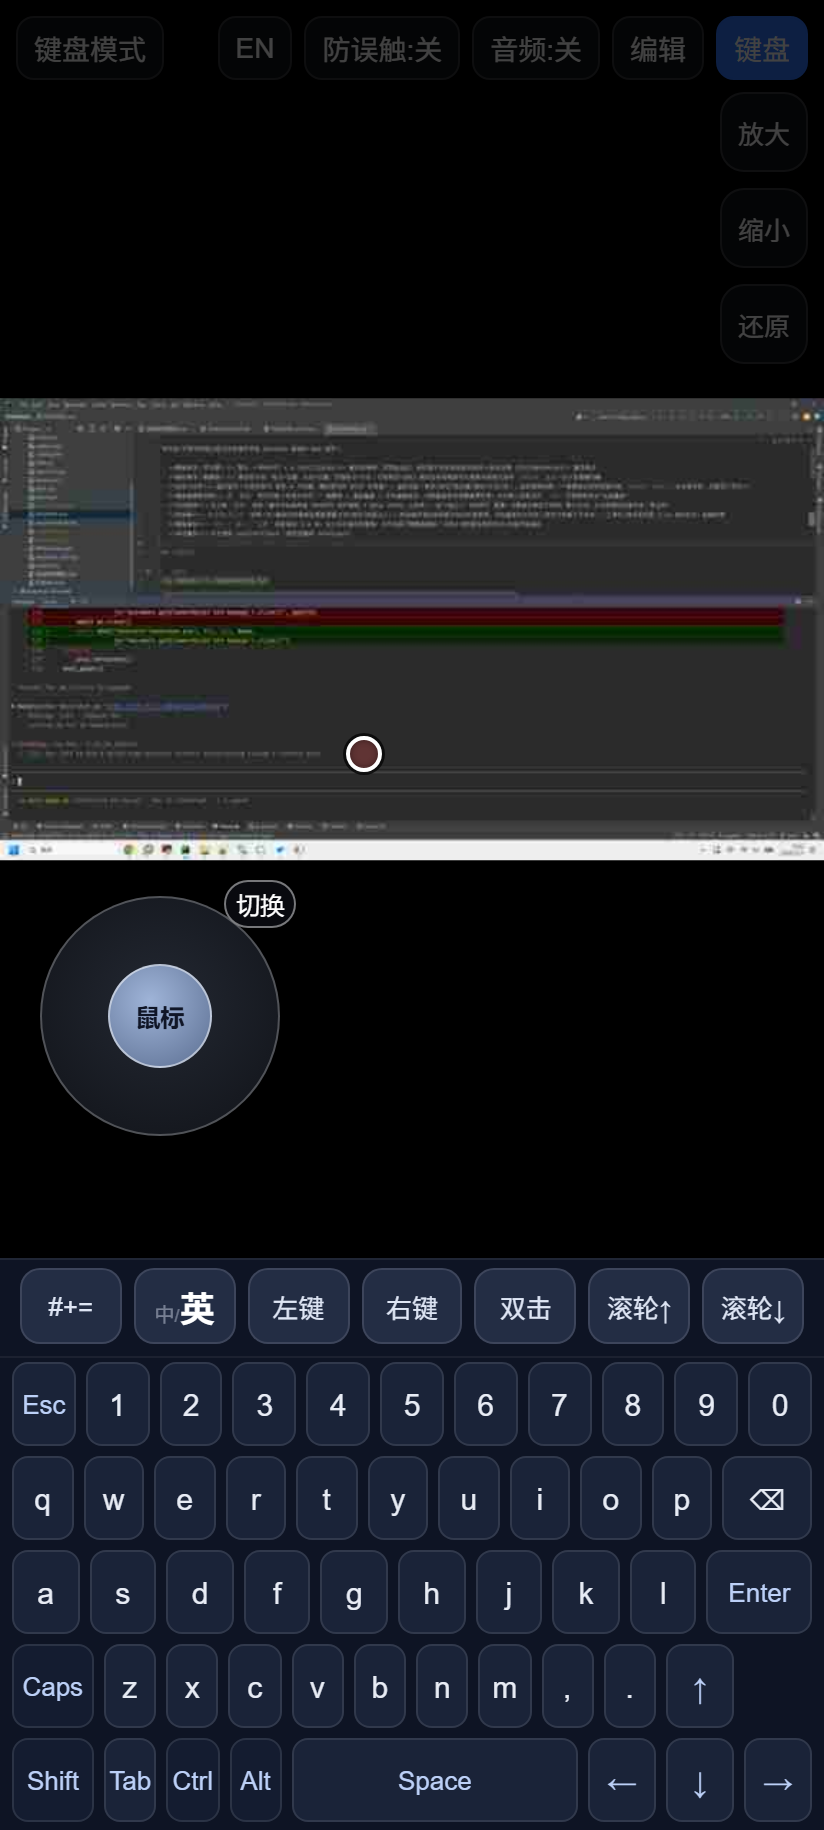
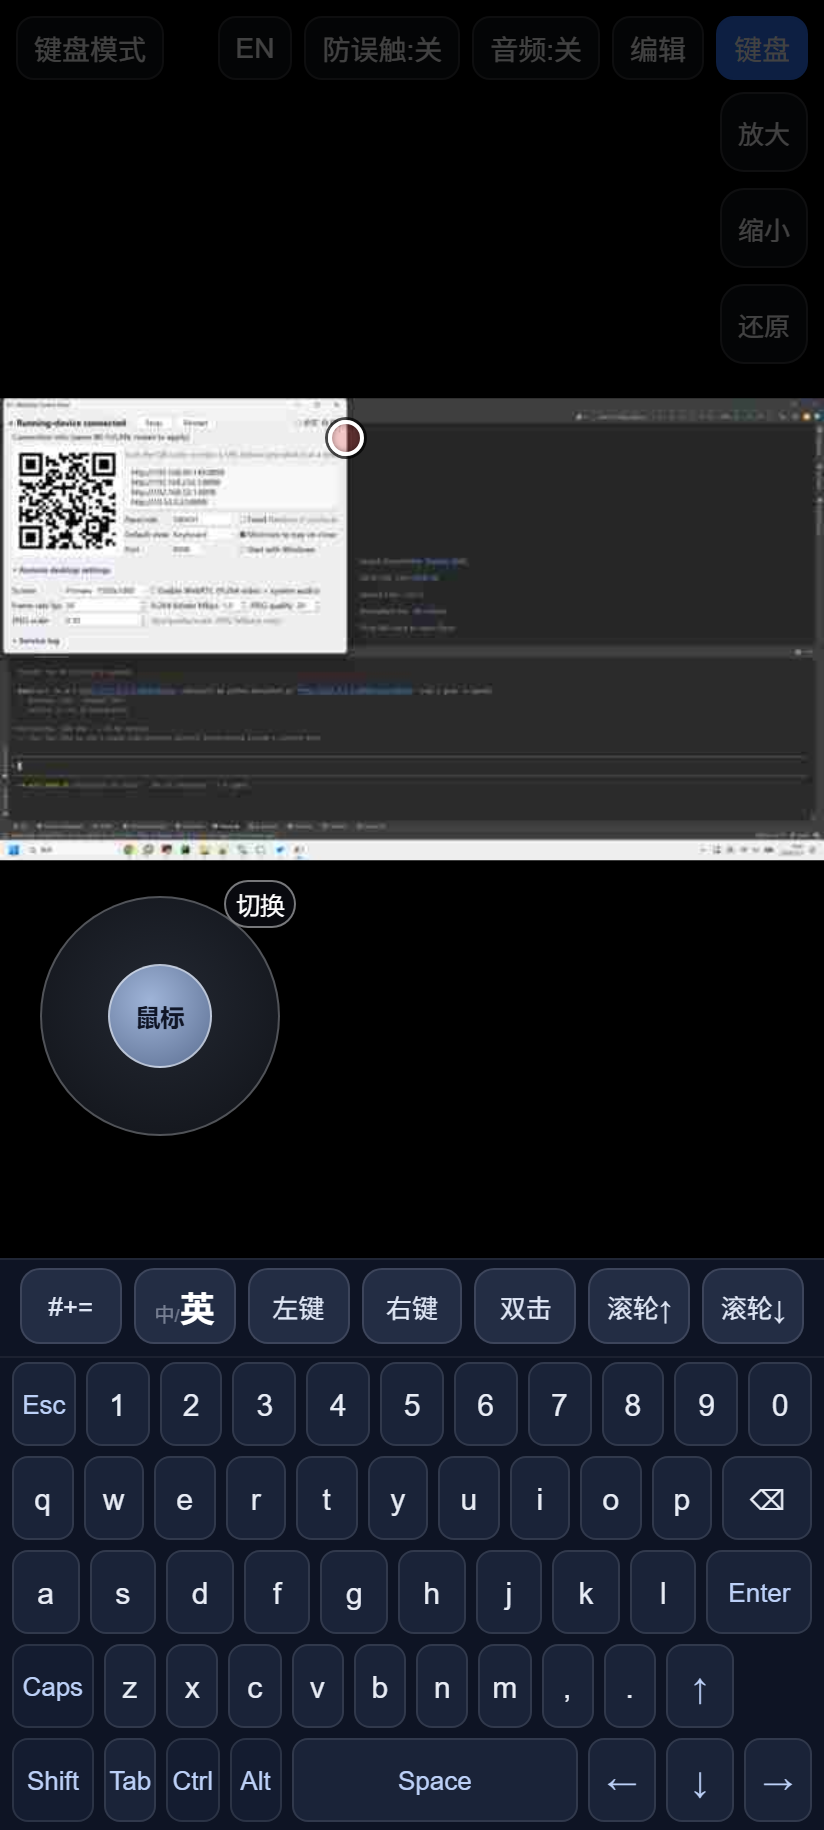
WebDesk: 英文README改用英文界面实拍截图，shot.py 支持双语批量重拍
- 新增 5 张英文界面截图(*-en.png)：手机页经 ?lang=en + 内存态控件改名(不动服务端布局)，
  面板用鼠标点击语言单选钮切换后拍重建窗口，拍完自动还原中文
- 面板截图修复：SetProcessDpiAwareness(2) 纠正 125% 缩放下虚拟化的窗口矩形；
  SetWindowPos 句柄用 c_void_p(-1)(x64 下 int 丢高位致置顶静默失效)；白屏首绘重试
- 手机截图修复：每拍新开标签页并关闭(同页 navigate 不断旧 WebSocket，
  会占住单连接名额致后续页面 busy 全黑)
- README.en.md 图片指向 -en 图

Changed region(s): [[0.0, 0.218, 1.0, 0.4361]]

diff --git a/docs/shot.py b/docs/shot.py
@@ -81,31 +81,112 @@ async def shot(name, w, h, url, js=None, timeout=25):
         urllib.request.urlopen(f"http://127.0.0.1:{PORT}/json/close/{tab_id}")
         await asyncio.sleep(1.5)                 # 给服务端一点时间处理断开
 
-def shot_panel():
+def shot_panel(name="panel.png", hwnd=None):
+    import ctypes.wintypes  # noqa: F401  click_panel_lang 的 POINT
     ctypes.windll.shcore.SetProcessDpiAwareness(2)   # 必须最先设置：本机 125% 缩放下
     #                                                 非感知进程拿到的窗口矩形是虚拟化的，截图会错位成黑块
     u = ctypes.windll.user32
-    hwnd = u.FindWindowW(None, "WebDesk 控制面板")
+    hwnd = hwnd or u.FindWindowW(None, "WebDesk 控制面板") or u.FindWindowW(None, "WebDesk Control Panel")
     if not hwnd:
         print("panel window not found"); return
-    if u.IsIconic(hwnd):
-        u.ShowWindow(hwnd, 9)                        # SW_RESTORE：最小化先还原
-    u.SwitchToThisWindow(hwnd, True)                 # 比 SetForegroundWindow 可靠（跨进程前台锁）
-    time.sleep(0.8)
+    # 注意：HWND_TOPMOST/NOTOPMOST 必须用 c_void_p 传——64 位下 ctypes 默认按
+    # 32 位 int 传 -1，不符号扩展指针高位 → 句柄变 0x00000000FFFFFFFF，置顶静默失效
+    TOP, NOTOP = ctypes.c_void_p(-1), ctypes.c_void_p(-2)
+    SWP_NOSIZE, SWP_SHOWWINDOW = 0x0001, 0x0040
+    u.SetWindowPos(hwnd, TOP, 0, 0, 0, 0, SWP_NOSIZE | SWP_SHOWWINDOW)   # 置顶绕前台锁
+    # 截屏法抓窗口矩形（Qt 窗口走 GPU 合成，PrintWindow 会得到全黑图，实测踩坑；
+    # 置 TOPMOST 后窗口必然在最上，矩形内即窗口本体）
+    from PIL import ImageGrab
+    l, t, r, b = _rect(u, hwnd)
+    img = None
+    for _ in range(8):                       # 刚重启的面板可能还在首绘（整窗纯白）：等内容出现
+        time.sleep(0.75)
+        img = ImageGrab.grab((l, t, r, b), all_screens=True)
+        px = img.convert("RGB").load()
+        w0, h0 = img.size
+        samples = [px[x, y] for x in (w0 // 4, w0 // 2, 3 * w0 // 4)
+                            for y in (h0 // 3, h0 // 2, 2 * h0 // 3)]
+        if any(p != (255, 255, 255) and sum(p) > 30 for p in samples):
+            break                            # 有内容且非全黑：可以拍
+    u.SetWindowPos(hwnd, NOTOP, 0, 0, 0, 0, SWP_NOSIZE)                  # 还原层级
+    path = os.path.join(OUT, name)
+    img.save(path)
+    print("saved", path)
+
+def _rect(u, hwnd):
     class R(ctypes.Structure):
         _fields_ = [("l", ctypes.c_long), ("t", ctypes.c_long),
                     ("r", ctypes.c_long), ("b", ctypes.c_long)]
     rc = R(); u.GetWindowRect(hwnd, ctypes.byref(rc))
-    from PIL import ImageGrab
-    img = ImageGrab.grab((rc.l, rc.t, rc.r, rc.b), all_screens=True)
-    path = os.path.join(OUT, "panel.png")
-    img.save(path)
-    print("saved", path)
+    return rc.l, rc.t, rc.r, rc.b
+
+def click_panel_lang(u, hwnd, x_rel):
+    """鼠标直接点面板右上角语言单选钮的圆圈（EN≈900 / 中文≈772，y≈60，窗口相对坐标）。
+    比"改 state+重启"可靠：不经历进程重启的首绘竞态与单实例互斥，点击后即时重建 UI。"""
+    l, t, r, b = _rect(u, hwnd)
+    pt = ctypes.wintypes.POINT(l + x_rel, t + 60)
+    u.SetCursorPos(pt.x, pt.y)
+    time.sleep(0.25)
+    u.mouse_event(0x0002, 0, 0, 0, 0)   # LEFTDOWN
+    u.mouse_event(0x0004, 0, 0, 0, 0)   # LEFTUP
+    # 语言切换 = 整个窗口销毁重建（标题也会变）：等目标标题的窗口出现，返回新句柄。
+    # 直接继续用旧句柄会拍到一个已销毁窗口的矩形位置（截出来是残影/空白）。
+    for title in ("WebDesk Control Panel", "WebDesk 控制面板"):
+        for _ in range(24):
+            time.sleep(0.5)
+            h = u.FindWindowW(None, title)
+            if h and h != hwnd:
+                time.sleep(1.2)         # 首绘缓冲
+                u.SetWindowPos(h, ctypes.c_void_p(-1), 0, 0, 0, 0, 0x0001)
+                return h
+    time.sleep(1.0)
+    return hwnd                          # 兜底：Qt 若原地换语言不换句柄
+
+def set_panel_lang(lang):
+    """（备用）改面板语言并重启面板"""
+    import json as _json
+    p = os.path.join(os.path.dirname(HERE), "dist", "panel_state.json")
+    if not os.path.exists(p):
+        p = os.path.join(os.path.dirname(HERE), "panel_state.json")
+    st = {}
+    if os.path.exists(p):
+        with open(p, encoding="utf-8") as f:
+            st = _json.load(f)
+    if st.get("lang") == lang:
+        return p, st
+    old = st.get("lang")
+    st["lang"] = lang
+    with open(p, "w", encoding="utf-8") as f:
+        _json.dump(st, f, ensure_ascii=False, indent=2)
+    subprocess.run(["taskkill", "/IM", "WebDesk.exe", "/FI", "WINDOWTITLE eq WebDesk*"],
+                   capture_output=True)
+    exe = os.path.join(os.path.dirname(HERE), "dist", "WebDesk.exe")
+    subprocess.Popen([exe], creationflags=0x8)   # DETACHED
+    want = "WebDesk Control Panel" if lang == "en" else "WebDesk 控制面板"
+    u = ctypes.windll.user32
+    for _ in range(30):                       # 等新语言标题的窗口出现（旧窗口已被 taskkill）
+        time.sleep(0.5)
+        if u.FindWindowW(None, want):
+            break
+    time.sleep(1.5)                           # 首绘缓冲（shot_panel 内还有白屏重试兜底）
+    return p, {"lang": old}
 
 async def main():
     os.makedirs(OUT, exist_ok=True)
     if "--panel-only" in sys.argv:
-        shot_panel()
+        shot_panel(sys.argv[2] if len(sys.argv) > 2 else "panel.png")
+        return
+    if "--panel-pair" in sys.argv:               # 只重拍中英文两张面板图（手机页不受影响）
+        shot_panel("panel.png")                  # 当前语言（约定为中文）
+        u = ctypes.windll.user32
+        hwnd = (u.FindWindowW(None, "WebDesk 控制面板") or
+                u.FindWindowW(None, "WebDesk Control Panel"))
+        if not hwnd:
+            print("panel window not found"); return
+        en_hwnd = click_panel_lang(u, hwnd, 900)   # 点 EN 单选钮（圆圈中心），拿重建后的新句柄
+        shot_panel("panel-en.png", en_hwnd)
+        click_panel_lang(u, en_hwnd, 772)          # 还原：点回「中文」
+        print("panel lang restored to zh")
         return
     base = sys.argv[1]
     proc = subprocess.Popen(
@@ -121,18 +202,35 @@ async def main():
                 break
             except Exception:
                 time.sleep(0.5)
-        # 1) 竖屏键盘模式（触屏手机竖屏默认即键盘视图）
-        await shot("keyboard-portrait.png", 412, 915, base)
-        # 2) 竖屏触屏模式：点「触屏模式」→ 画面 + 底栏键盘停靠
-        await shot("screen-portrait.png", 412, 915, base,
-                   js="document.getElementById('go-screen').click()")
-        # 3) 横屏触屏模式：重开页面（横屏默认画面视图，右上有全屏按钮）
-        await shot("screen-landscape.png", 915, 412, base)
-        # 4) 横屏键盘模式：点「键盘模式」
-        await shot("keyboard-landscape.png", 915, 412, base,
-                   js="document.getElementById('btn-kbpage').click()")
+        # 两套语言各拍 4 张手机界面：中文供 README.md，英文供 README.en.md
+        # （i18n 语言解析：URL ?lang= 优先于浏览器语言，headless 首启即生效）
+        # 控件按钮的 label 属用户数据（layout.json），界面切英文也不会翻译存量标签；
+        # 英文截图前现场改名重绘（仅内存，不触发 Widgets.save，不污染服务端布局）
+        relabel = ("var m={'左键':'Left','右键':'Right','双击':'Double'};"
+                   "Widgets.layout.forEach(function(w){if(m[w.label])w.label=m[w.label]});"
+                   "Widgets.render();")
+        for lang, suf in (("zh", ""), ("en", "-en")):
+            url = base + "&lang=" + lang
+            rj = relabel if lang == "en" else None
+            # 1) 竖屏键盘模式（触屏手机竖屏默认即键盘视图）
+            await shot("keyboard-portrait" + suf + ".png", 412, 915, url, js=rj)
+            # 2) 竖屏触屏模式：点「触屏模式」→ 画面 + 底栏键盘停靠
+            await shot("screen-portrait" + suf + ".png", 412, 915, url,
+                       js=(rj + " document.getElementById('go-screen').click()") if rj
+                          else "document.getElementById('go-screen').click()")
+            # 3) 横屏触屏模式：重开页面（横屏默认画面视图，右上有全屏按钮）
+            await shot("screen-landscape" + suf + ".png", 915, 412, url, js=rj)
+            # 4) 横屏键盘模式：点「键盘模式」
+            await shot("keyboard-landscape" + suf + ".png", 915, 412, url,
+                       js=(rj + " document.getElementById('btn-kbpage').click()") if rj
+                          else "document.getElementById('btn-kbpage').click()")
     finally:
         proc.terminate()
-    shot_panel()
+    shot_panel("panel.png")                       # 当前面板语言（约定：跑脚本前面板保持中文）
+    _, restore = set_panel_lang("en")             # 英文面板：写 state → 重启面板 → 拍
+    shot_panel("panel-en.png")
+    if restore.get("lang"):                       # 还原原语言并重启回面板，不留英文态
+        set_panel_lang(restore["lang"])
+        print("panel lang restored to", restore["lang"])
 
 asyncio.run(main())

diff --git a/README.en.md b/README.en.md
@@ -19,11 +19,11 @@ Phone (Chrome/Edge/Safari) and the desktop control panel:
 
 | Keyboard mode · portrait | Touch mode · portrait |
 |:---:|:---:|
-| <img src="docs/images/keyboard-portrait.png" width="230"> | <img src="docs/images/screen-portrait.png" width="230"> |
+| <img src="docs/images/keyboard-portrait-en.png" width="230"> | <img src="docs/images/screen-portrait-en.png" width="230"> |
 
 | Touch mode · landscape | Keyboard mode · landscape |
 |:---:|:---:|
-| <img src="docs/images/screen-landscape.png" width="360"> | <img src="docs/images/keyboard-landscape.png" width="360"> |
+| <img src="docs/images/screen-landscape-en.png" width="360"> | <img src="docs/images/keyboard-landscape-en.png" width="360"> |
 
 <details>
 <summary>What you're looking at</summary>
@@ -49,7 +49,7 @@ Connect your phone/tablet to the same Wi-Fi as this PC, scan the QR code on the 
 
 Desktop management UI (PyQt5; the QR code needs the `qrcode` library — both are in requirements):
 
-![Control panel](docs/images/panel.png)
+![Control panel](docs/images/panel-en.png)
 
 - **Start/stop service**: the service runs as a separate process, but **closing the panel window stops the service first** (no leftovers in the background); the status light shows live state and desktop resolution
 - **Connection info**: lists all LAN addresses of this PC (default adapter first, port included in the URL, auto-refreshed and selectable for copying); the **current access code** is shown read-only in the "Access code" field (random codes update live); the QR code embeds `?pin=` so phones connect without typing the code; the info line also shows live **remote connection occupancy `n/1`** (refreshed by health polling)
